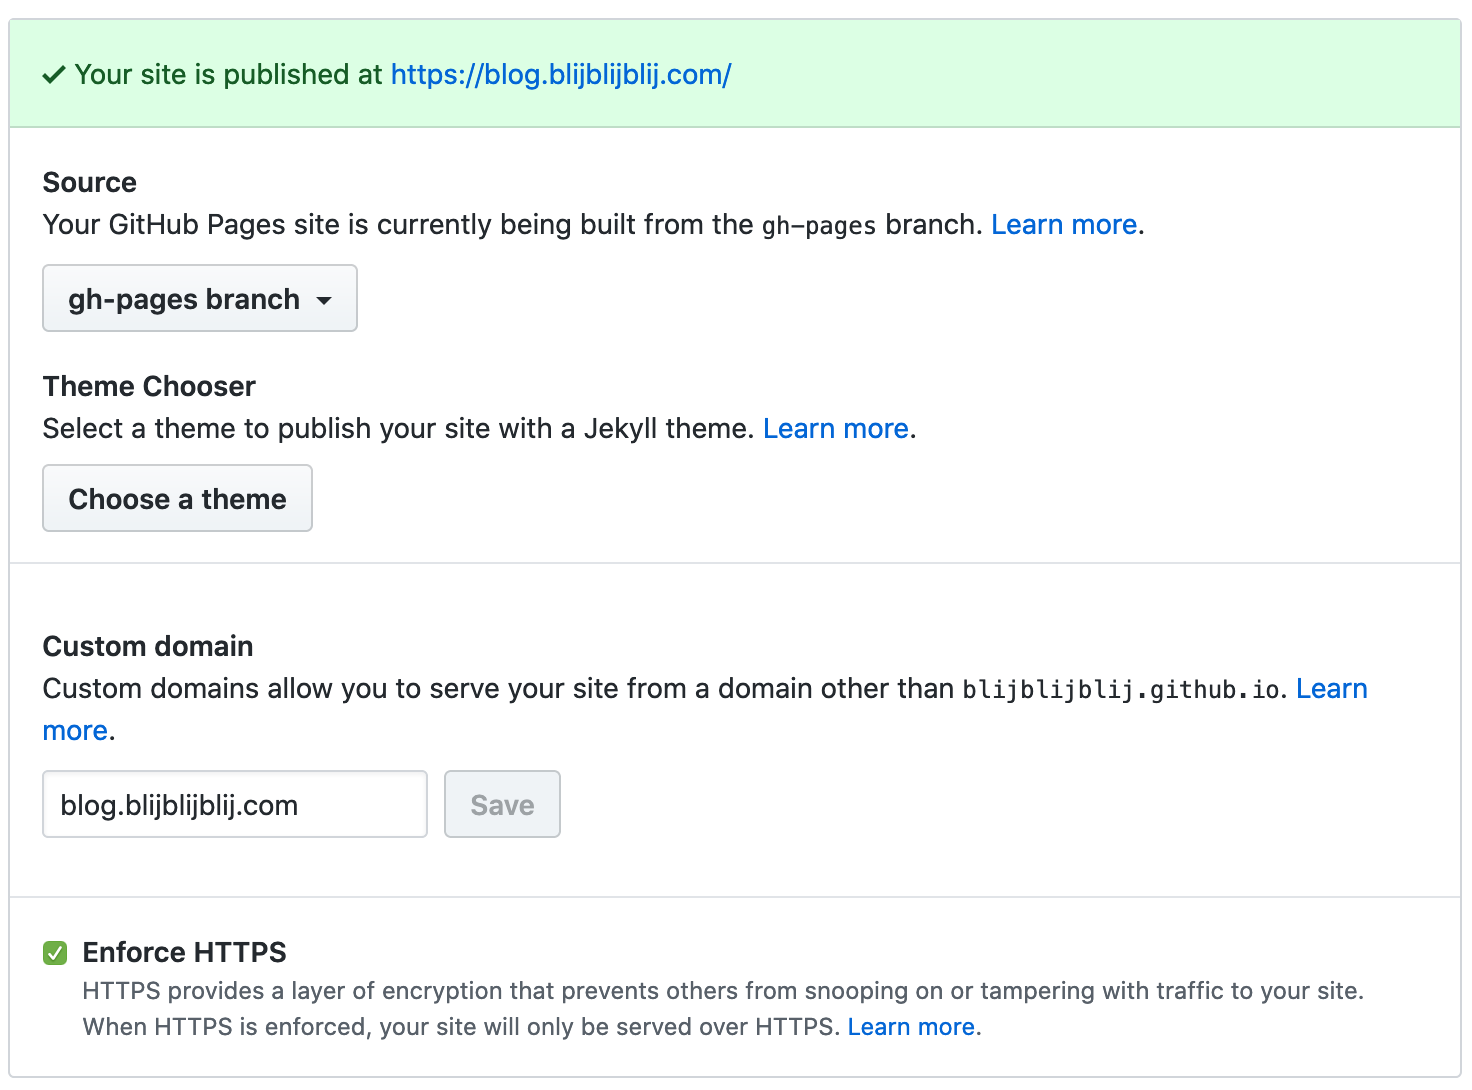
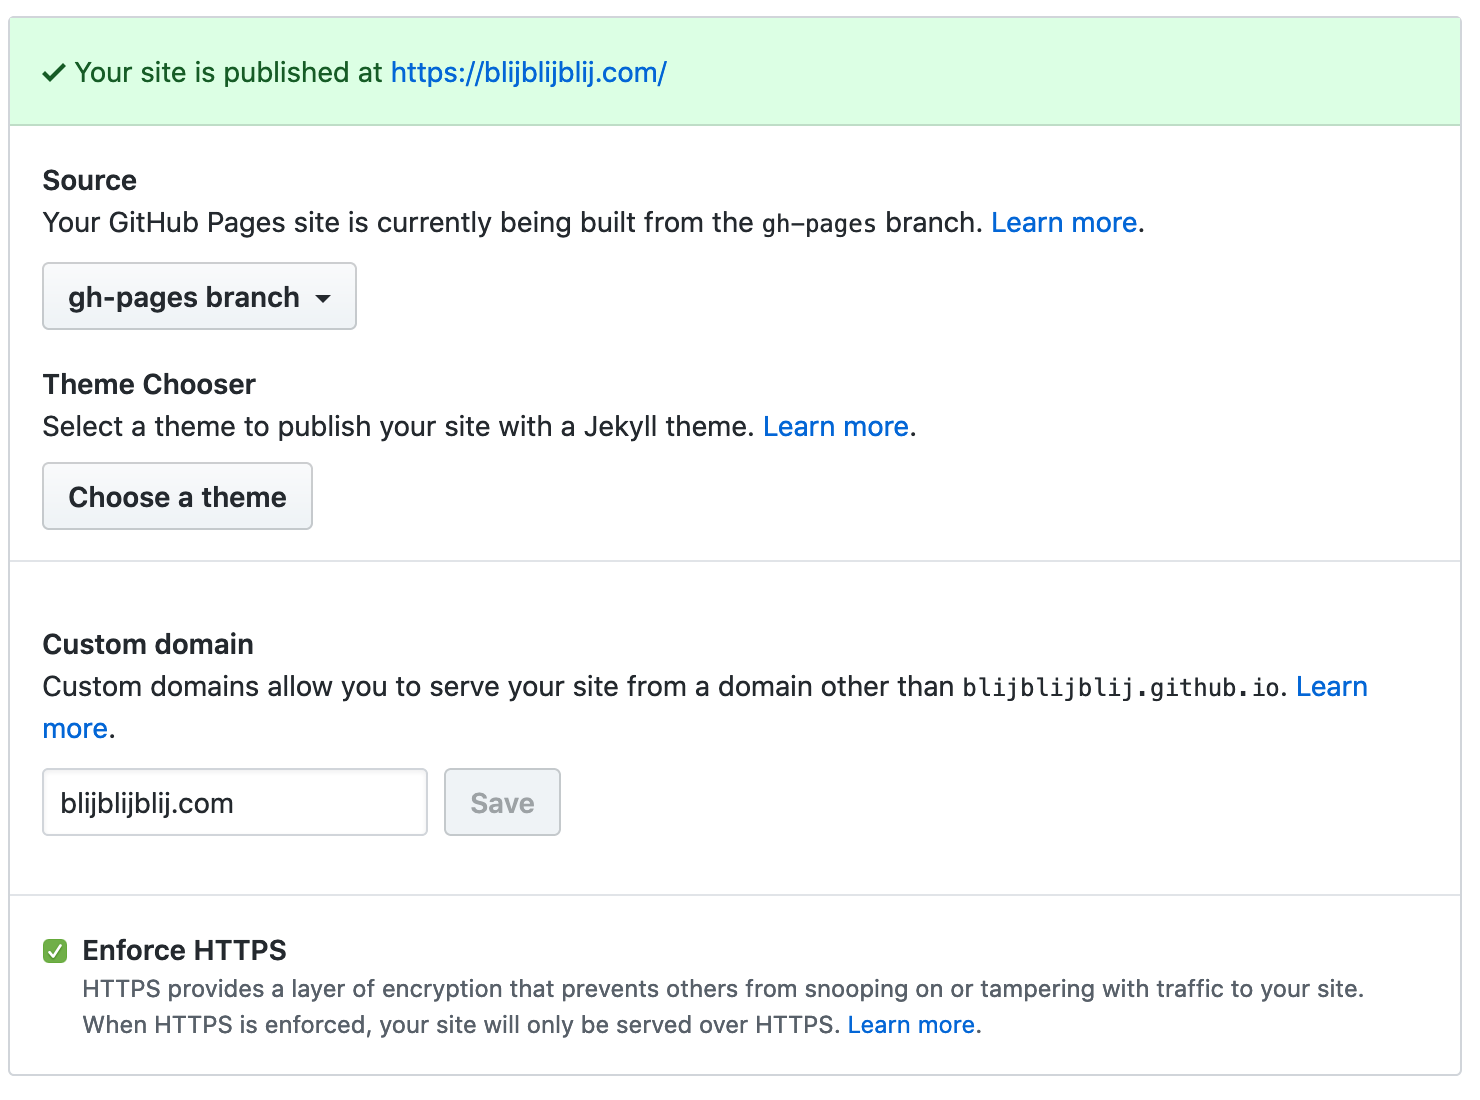
Updated to latest www merge

diff --git a/content/post/2019-12-30-Reactivated-blog-with-hugo.md b/content/post/2019-12-30-Reactivated-blog-with-hugo.md
@@ -5,13 +5,11 @@ author: "Rogier Wessel"
 tags: ["blog", "hugo"]
 draft: false
 ---
-> 2020-01-19: no content storm here, so merged blog.blijblijblij.com and blijblijblij.com
-
 Somehow over time bitrot appeared in my [Hugo](https://gohugo.io/) setup. Files where ok 
 for a very old version, but config changes no longer followed the newer 
 conventions as suggested by Hugo. Also my carefully adapted
-theme had fallen to pieces and didn't render no more, so 
-[kiss theme](https://themes.gohugo.io/kiss/) to the rescue!
+theme had fallen to pieces and didn't render no more, so [Tranquilpeak theme](https://github.com/kakawait/hugo-tranquilpeak-theme/) 
+to the rescue!
 
 Also automation happened and we now have [Github Actions](https://github.com/features/actions) which is a 
 perfect solution to build and deploy Hugo pages to [GitHub Pages](https://pages.github.com/). 
@@ -19,7 +17,7 @@ perfect solution to build and deploy Hugo pages to [GitHub Pages](https://pages.
 Github-pages is an excellent service
 supporting the hosting of static websites, ssl included, also 
 [custom domain names are supported](https://help.github.com/en/github/working-with-github-pages/about-custom-domains-and-github-pages) allowing me to host via Github
-Pages but on my own domain [https://blog.blijblijblij.com](https://blog.blijblijblij.com).
+Pages but on my own domain [https://blijblijblij.com](https://blijblijblij.com).
 
 ![Git settings](/images/2019-12-30-git-settings.png "Git settings")
 
